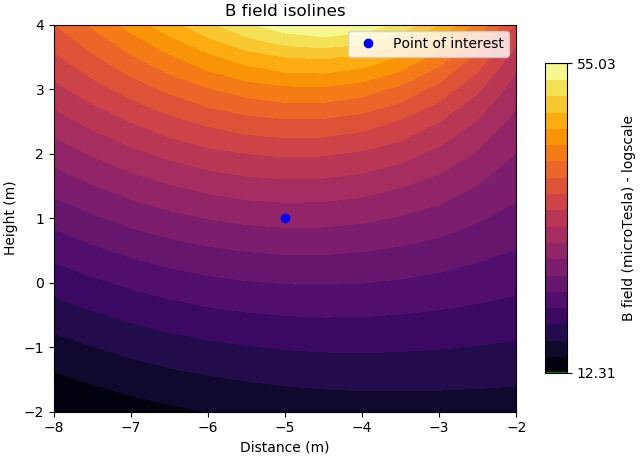
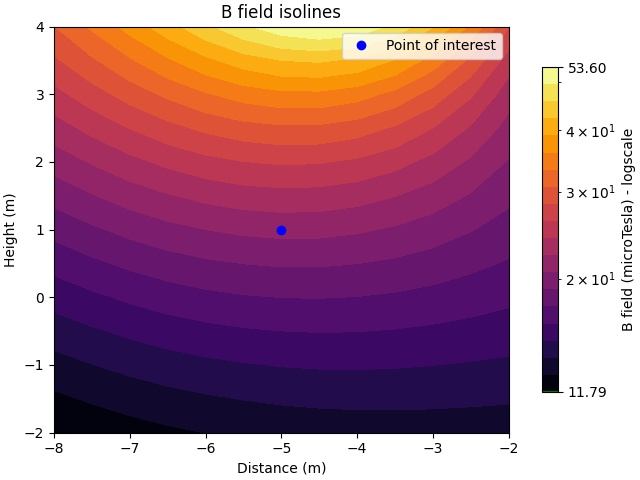
Test calculation.py: main_grid

diff --git a/conftest.py b/conftest.py
@@ -85,12 +85,27 @@ def eg_input_B_eff_single_OH():
     return expected_input_1, expected_input_2, expected_input_3
 
 @fixture
-def eg_output_B_eff_single_OH():
+def eg_output_single_OH():
     '''
     Overhead configuration A1 - single triad - OUTPUT
     '''
     B_eff = 2.991776205053418
-    return B_eff
+    x = np.array([-23.5, -23,  -22.5, -22, -21.5, -21, -20.5, -20, -19.5, -19, -18.5, -18, -17.5])
+    y = np.array([-2, -1.5, -1, -0.5, 0, 0.5, 1, 1.5, 2, 2.5, 3, 3.5, 4])
+    z_grid = np.array([[2.11, 2.19, 2.28, 2.37, 2.46, 2.56, 2.66, 2.78, 2.89, 3.02, 3.15, 3.29, 3.44],
+                       [2.15, 2.23, 2.32, 2.41, 2.51, 2.61, 2.72, 2.84, 2.96, 3.09, 3.23, 3.38, 3.53],
+                       [2.18, 2.27, 2.36, 2.45, 2.56, 2.66, 2.78, 2.90, 3.03, 3.16, 3.31, 3.46, 3.63],
+                       [2.22, 2.30, 2.40, 2.50, 2.60, 2.71, 2.83, 2.96, 3.09, 3.24, 3.39, 3.55, 3.72],
+                       [2.25, 2.34, 2.44, 2.54, 2.65, 2.76, 2.89, 3.02, 3.16, 3.31, 3.47, 3.64, 3.82],
+                       [2.28, 2.37, 2.47, 2.58, 2.69, 2.81, 2.94, 3.08, 3.22, 3.38, 3.54, 3.72, 3.91],
+                       [2.31, 2.41, 2.51, 2.62, 2.74, 2.86, 2.99, 3.13, 3.28, 3.45, 3.62, 3.81, 4.01],
+                       [2.34, 2.44, 2.54, 2.66, 2.78, 2.90, 3.04, 3.19, 3.34, 3.51, 3.69, 3.89, 4.10],
+                       [2.37, 2.47, 2.58, 2.69, 2.82, 2.95, 3.09, 3.24, 3.40, 3.58, 3.76, 3.96, 4.18],
+                       [2.39, 2.50, 2.61, 2.73, 2.85, 2.99, 3.13, 3.29, 3.46, 3.64, 3.83, 4.04, 4.27],
+                       [2.42, 2.53, 2.64, 2.76, 2.89, 3.03, 3.18, 3.34, 3.51, 3.69, 3.89, 4.11, 4.35],
+                       [2.44, 2.55, 2.67, 2.79, 2.92, 3.06, 3.22, 3.38, 3.56, 3.75, 3.95, 4.18, 4.42],
+                       [2.46, 2.57, 2.69, 2.82, 2.95, 3.10, 3.25, 3.42, 3.60, 3.80, 4.01, 4.24, 4.49]])
+    return B_eff, x, y, z_grid
 
 @fixture
 def eg_input_double_OH():
@@ -101,12 +116,12 @@ def eg_input_double_OH():
     xp, yp = -5, 1
     diam_cables = 31.5*0.001
     cables_array = np.array([[[330, -4.0, 6.3],
-                              [210, -3.6, 11.6],
-                              [90, -3.2, 16.3]],
+                              [210, -3.6, 11],
+                              [90, -3.2, 15.7]],
 
                              [[330, 4.0, 6.3],
-                              [210, 3.6, 11.6],
-                              [90, 3.2, 16.3]]])
+                              [210, 3.6, 11],
+                              [90, 3.2, 15.7]]])
     subparser_type = 'double'
     return currents, xp, yp, diam_cables, cables_array, subparser_type
 
@@ -142,20 +157,42 @@ def eg_input_B_eff_double_OH():
     Overhead configuration A9 - double triad - INPUT
     '''
     expected_input_1 = np.array([float(2.74544045e-05), float(-1.58508078e-05), float(-5.18007633e-06), float(2.99071846e-06)]).reshape(2, 2)
-    expected_input_2 = np.array([float(-1.39721593e-05), float(-8.06682996e-06), float(1.84537954e-06), float(1.06543037e-06)]).reshape(2, 2)
-    expected_input_3 = np.array([float(6.86861061e-22), float(1.12172924e-05), float(-8.08071836e-23), float(-1.31968146e-06)]).reshape(2, 2)
+    expected_input_2 = np.array([float(-1.47791703e-05), float(-8.53275795e-06), float(2.06908384e-06), float(1.19458611e-06)]).reshape(2, 2)
+    expected_input_3 = np.array([float(7.14084162e-22), float(1.16618794e-05), float(-8.74388770e-23), float(-1.42798523e-06)]).reshape(2, 2)
     expected_input_4 = np.array([float(7.32100676e-06), float(-4.22678523e-06), float(-1.24318983e-05), float(7.17755982e-06)]).reshape(2, 2)
-    expected_input_5 = np.array([float(-8.57287063e-06), float(-4.94954917e-06), float(6.95534787e-06), float(4.01567196e-06)]).reshape(2, 2)
-    expected_input_6 = np.array([float(5.40977452e-22), float(8.83483225e-06), float(-2.89935628e-22), float(-4.73500813e-06)]).reshape(2, 2)
+    expected_input_5 = np.array([float(-8.66224536e-06), float(-5.00114969e-06), float(7.44953101e-06), float(4.30098874e-06)]).reshape(2, 2)
+    expected_input_6 = np.array([float(5.52783254e-22), float(9.02763562e-06), float(-3.08355284e-22), float(-5.03582395e-06)]).reshape(2, 2)
+
+    # expected_input_1 = np.array([float(2.74544045e-05), float(-1.58508078e-05), float(-5.18007633e-06), float(2.99071846e-06)]).reshape(2, 2)
+    # expected_input_2 = np.array([float(-1.39721593e-05), float(-8.06682996e-06), float(1.84537954e-06), float(1.06543037e-06)]).reshape(2, 2)
+    # expected_input_3 = np.array([float(6.86861061e-22), float(1.12172924e-05), float(-8.08071836e-23), float(-1.31968146e-06)]).reshape(2, 2)
+    # expected_input_4 = np.array([float(7.32100676e-06), float(-4.22678523e-06), float(-1.24318983e-05), float(7.17755982e-06)]).reshape(2, 2)
+    # expected_input_5 = np.array([float(-8.57287063e-06), float(-4.94954917e-06), float(6.95534787e-06), float(4.01567196e-06)]).reshape(2, 2)
+    # expected_input_6 = np.array([float(5.40977452e-22), float(8.83483225e-06), float(-2.89935628e-22), float(-4.73500813e-06)]).reshape(2, 2)
     return expected_input_1, expected_input_2, expected_input_3, expected_input_4, expected_input_5, expected_input_6
 
 @fixture
-def eg_output_B_eff_double_OH():
+def eg_output_double_OH():
     '''
     Overhead configuration A9 - double triad - OUTPUT
     '''
-    B_eff = 21.95113745163136
-    return B_eff
+    B_eff = 21.108776674367164
+    x = np.array([-8, -7.5, -7, -6.5, -6, -5.5, -5, -4.5, -4, -3.5, -3, -2.5, -2])
+    y = np.array([-2, -1.5, -1, -0.5, 0, 0.5, 1, 1.5, 2, 2.5, 3, 3.5, 4])
+    z_grid = np.array([[11.79, 12.08, 12.34, 12.58, 12.78, 12.95, 13.08, 13.17, 13.22, 13.25, 13.24, 13.22, 13.18],
+                       [12.56, 12.89, 13.19, 13.46, 13.68, 13.86, 13.99, 14.08, 14.11, 14.11, 14.08, 14.02, 13.95],
+                       [13.42, 13.80, 14.14, 14.45, 14.70, 14.89, 15.03, 15.10, 15.11, 15.07, 14.99, 14.88, 14.75],
+                       [14.38, 14.82, 15.22, 15.57, 15.86, 16.07, 16.21, 16.26, 16.24, 16.14, 15.99, 15.80, 15.60],
+                       [15.45, 15.97, 16.44, 16.86, 17.19, 17.44, 17.58, 17.61, 17.53, 17.35, 17.10, 16.81, 16.49],
+                       [16.65, 17.28, 17.85, 18.35, 18.75, 19.04, 19.18, 19.18, 19.03, 18.75, 18.35, 17.90, 17.42],
+                       [18.01, 18.77, 19.47, 20.09, 20.59, 20.94, 21.11, 21.07, 20.82, 20.38, 19.79, 19.10, 18.38],
+                       [19.55, 20.48, 21.36, 22.15, 22.80, 23.26, 23.46, 23.38, 23.01, 22.35, 21.47, 20.45, 19.39],
+                       [21.30, 22.46, 23.58, 24.62, 25.49, 26.12, 26.41, 26.31, 25.77, 24.82, 23.52, 22.02, 20.45],
+                       [23.26, 24.73, 26.19, 27.58, 28.81, 29.73, 30.22, 30.13, 29.40, 28.03, 26.15, 23.94, 21.63],
+                       [25.47, 27.34, 29.27, 31.19, 32.96, 34.40, 35.27, 35.31, 34.36, 32.43, 29.69, 26.46, 23.10],
+                       [27.93, 30.31, 32.88, 35.56, 38.21, 40.56, 42.20, 42.64, 41.52, 38.77, 34.75, 30.03, 25.16],
+                       [30.61, 33.64, 37.06, 40.84, 44.87, 48.82, 52.06, 53.60, 52.48, 48.49, 42.39, 35.38, 28.42]])
+    return B_eff, x, y, z_grid
 
 @fixture
 def eg_input_B_eff_UG():
@@ -168,9 +205,24 @@ def eg_input_B_eff_UG():
     return expected_input_1, expected_input_2, expected_input_3
 
 @fixture
-def eg_output_B_eff_UG():
+def eg_output_UG():
     '''
     Underground configuration A14 - OUTPUT
     '''
     B_eff = 2.961985541915273
-    return B_eff
+    x = np.array([2.1, 2.6, 3.1, 3.6, 4.1, 4.6, 5.1, 5.6, 6.1, 6.6, 7.1, 7.6, 8.1])
+    y = np.array([-4.5, -4, -3.5, -3, -2.5, -2, -1.5, -1, -0.5, 0, 0.5, 1, 1.5])
+    z_grid = np.array([[5.73, 4.88, 4.13, 3.50, 2.98, 2.55, 2.20, 1.91, 1.67, 1.46, 1.30, 1.15, 1.03],
+                       [7.21, 5.91, 4.85, 4.01, 3.34, 2.81, 2.39, 2.05, 1.77, 1.55, 1.36, 1.20, 1.07],
+                       [9.15, 7.16, 5.66, 4.54, 3.70, 3.06, 2.57, 2.18, 1.87, 1.62, 1.41, 1.25, 1.11],
+                       [11.58, 8.56, 6.50, 5.07, 4.04, 3.29, 2.73, 2.29, 1.95, 1.68, 1.46, 1.28, 1.13],
+                       [14.30, 9.96, 7.27, 5.53, 4.33, 3.48, 2.85, 2.38, 2.01, 1.73, 1.50, 1.31, 1.16],
+                       [16.65, 11.04, 7.83, 5.84, 4.52, 3.60, 2.93, 2.44, 2.06, 1.76, 1.52, 1.33, 1.17],
+                       [17.62, 11.46, 8.04, 5.96, 4.59, 3.64, 2.96, 2.46, 2.07, 1.77, 1.53, 1.33, 1.17],
+                       [16.65, 11.04, 7.83, 5.84, 4.52, 3.60, 2.93, 2.44, 2.06, 1.76, 1.52, 1.33, 1.17],
+                       [14.30, 9.96, 7.27, 5.53, 4.33, 3.48, 2.85, 2.38, 2.01, 1.73, 1.50, 1.31, 1.16],
+                       [11.58, 8.56, 6.50, 5.07, 4.04, 3.29, 2.73, 2.29, 1.95, 1.68, 1.46, 1.28, 1.13],
+                       [9.15, 7.16, 5.66, 4.54, 3.70, 3.06, 2.57, 2.18, 1.87, 1.62, 1.41, 1.25, 1.11],
+                       [7.21, 5.91, 4.85, 4.01, 3.34, 2.81, 2.39, 2.05, 1.77, 1.55, 1.36, 1.20, 1.07],
+                       [5.73, 4.88, 4.13, 3.50, 2.98, 2.55, 2.20, 1.91, 1.67, 1.46, 1.30, 1.15, 1.03]])
+    return B_eff, x, y, z_grid

diff --git a/test_calculations.py b/test_calculations.py
@@ -1,13 +1,10 @@
 # import hypothesis.strategies as st
 # from hypothesis import given, settings
+#import pytest
 
 import numpy as np
-#import pytest
 from B_field import calculations
 
-def test_which_iterator():
-    #TODO write a test
-    return True
 
 def test_calc_B_phasors_overhead(eg_input_single_OH, eg_output_B_phasors_OH):
     '''
@@ -16,10 +13,7 @@ def test_calc_B_phasors_overhead(eg_input_single_OH, eg_output_B_phasors_OH):
     what is expected to.
     '''
     calculated_B_phasors = calculations.calc_B_phasors(eg_input_single_OH[0][0], eg_input_single_OH[1], eg_input_single_OH[2], eg_input_single_OH[4][0][0])
-    assert np.isclose(calculated_B_phasors[0, 0], eg_output_B_phasors_OH[0, 0])
-    assert np.isclose(calculated_B_phasors[0, 1], eg_output_B_phasors_OH[0, 1])
-    assert np.isclose(calculated_B_phasors[1, 0], eg_output_B_phasors_OH[1, 0])
-    assert np.isclose(calculated_B_phasors[1, 1], eg_output_B_phasors_OH[1, 1])
+    assert np.allclose(calculated_B_phasors, eg_output_B_phasors_OH)
 
 def test_calc_B_phasors_underground(eg_input_UG, eg_output_B_phasors_UG):
     '''
@@ -28,12 +22,10 @@ def test_calc_B_phasors_underground(eg_input_UG, eg_output_B_phasors_UG):
     what is expected to.
     '''
     calculated_B_phasors = calculations.calc_B_phasors(eg_input_UG[0][0], eg_input_UG[1], eg_input_UG[2], eg_input_UG[4][0][0])
-    assert np.isclose(calculated_B_phasors[0, 0], eg_output_B_phasors_UG[0, 0])
-    assert np.isclose(calculated_B_phasors[0, 1], eg_output_B_phasors_UG[0, 1])
-    assert np.isclose(calculated_B_phasors[1, 0], eg_output_B_phasors_UG[1, 0])
-    assert np.isclose(calculated_B_phasors[1, 1], eg_output_B_phasors_UG[1, 1])
+    assert np.allclose(calculated_B_phasors, eg_output_B_phasors_UG)
 
-def test_calc_B_effective_overhead(eg_input_B_eff_single_OH, eg_input_B_eff_double_OH, eg_output_B_eff_single_OH, eg_output_B_eff_double_OH):
+
+def test_calc_B_effective_overhead(eg_input_B_eff_single_OH, eg_input_B_eff_double_OH, eg_output_single_OH, eg_output_double_OH):
     '''
     This test verifies that the function calc_B_effective, given the proper input
     of a single triad or double triad OVERHEAD (OH), returns what is expected to.
@@ -41,18 +33,20 @@ def test_calc_B_effective_overhead(eg_input_B_eff_single_OH, eg_input_B_eff_doub
     calculated_B_effective_single_OH = calculations.calc_B_effective(eg_input_B_eff_single_OH[0], eg_input_B_eff_single_OH[1], eg_input_B_eff_single_OH[2])
     calculated_B_effective_double_OH = calculations.calc_B_effective(eg_input_B_eff_double_OH[0], eg_input_B_eff_double_OH[1], eg_input_B_eff_double_OH[2],
                                                                   eg_input_B_eff_double_OH[3], eg_input_B_eff_double_OH[4], eg_input_B_eff_double_OH[5])
-    assert np.isclose(calculated_B_effective_single_OH, eg_output_B_eff_single_OH)
-    assert np.isclose(calculated_B_effective_double_OH, eg_output_B_eff_double_OH)
+    assert np.isclose(calculated_B_effective_single_OH, eg_output_single_OH[0])
+    assert np.isclose(calculated_B_effective_double_OH, eg_output_double_OH[0])
 
-def test_calc_B_effective_underground(eg_input_B_eff_UG, eg_output_B_eff_UG):
+
+def test_calc_B_effective_underground(eg_input_B_eff_UG, eg_output_UG):
     '''
     This test verifies that the function calc_B_effective, given the proper input
     of a single triad UNDERGROUND (UG), returns what is expected to.
     '''
     calculated_B_effective_UG = calculations.calc_B_effective(eg_input_B_eff_UG[0], eg_input_B_eff_UG[1], eg_input_B_eff_UG[2])
-    assert np.isclose(calculated_B_effective_UG, eg_output_B_eff_UG)
+    assert np.isclose(calculated_B_effective_UG, eg_output_UG[0])
 
-def test_main_point(eg_input_single_OH, eg_output_B_eff_single_OH, eg_input_UG, eg_output_B_eff_UG, eg_input_double_OH, eg_output_B_eff_double_OH):
+
+def test_main_point(eg_input_single_OH, eg_output_single_OH, eg_input_UG, eg_output_UG, eg_input_double_OH, eg_output_double_OH):
     '''
     This test verifies that the function main_point, given the proper input
     of either a single triad OVERHEAD (OH) or UNDERGROUND (UG),
@@ -61,25 +55,47 @@ def test_main_point(eg_input_single_OH, eg_output_B_eff_single_OH, eg_input_UG, 
     calculated_point_single_OH = calculations.main_point(eg_input_single_OH[0], eg_input_single_OH[1], eg_input_single_OH[2], eg_input_single_OH[3], eg_input_single_OH[4], eg_input_single_OH[5])
     calculated_point_single_UG = calculations.main_point(eg_input_UG[0], eg_input_UG[1], eg_input_UG[2], eg_input_UG[3], eg_input_UG[4], eg_input_UG[5])
     calculated_point_double_OH = calculations.main_point(eg_input_double_OH[0], eg_input_double_OH[1], eg_input_double_OH[2], eg_input_double_OH[3], eg_input_double_OH[4], eg_input_double_OH[5])
-    assert np.isclose(calculated_point_single_OH, eg_output_B_eff_single_OH)
-    assert np.isclose(calculated_point_single_UG, eg_output_B_eff_UG)
-    assert np.isclose(calculated_point_double_OH, eg_output_B_eff_double_OH)
+    assert np.isclose(calculated_point_single_OH, eg_output_single_OH[0])
+    assert np.isclose(calculated_point_single_UG, eg_output_UG[0])
+    assert np.isclose(calculated_point_double_OH, eg_output_double_OH[0])
 
-def test_main_grid():
-    #TODO write a test
-    return True
+def test_main_grid(eg_input_single_OH, eg_output_single_OH, eg_input_UG, eg_output_UG, eg_input_double_OH, eg_output_double_OH):
+    '''
+    This test verifies that the function main_grid, given the proper input
+    of either a single triad OVERHEAD (OH) or UNDERGROUND (UG),
+    or a double triad OVERHEAD (OH), returns what is expected to.
+    '''
+    calculated_grid_single_OH = calculations.main_grid(eg_input_single_OH[0], eg_input_single_OH[1], eg_input_single_OH[2], eg_input_single_OH[3], eg_input_single_OH[4], eg_input_single_OH[5])
+    calculated_grid_single_UG = calculations.main_grid(eg_input_UG[0], eg_input_UG[1], eg_input_UG[2], eg_input_UG[3], eg_input_UG[4], eg_input_UG[5])
+    calculated_grid_double_OH = calculations.main_grid(eg_input_double_OH[0], eg_input_double_OH[1], eg_input_double_OH[2], eg_input_double_OH[3], eg_input_double_OH[4], eg_input_double_OH[5])
+    #assert del single Overhead
+    assert np.allclose(calculated_grid_single_OH[0], eg_output_single_OH[1]) #x array
+    assert np.allclose(calculated_grid_single_OH[1], eg_output_single_OH[2]) #y array
+    assert np.allclose(calculated_grid_single_OH[2], eg_output_single_OH[3], rtol=1e-02) # z_grid
+    #asser del single Underground
+    assert np.allclose(calculated_grid_single_UG[0], eg_output_UG[1])
+    assert np.allclose(calculated_grid_single_UG[1], eg_output_UG[2])
+    assert np.allclose(calculated_grid_single_UG[2], eg_output_UG[3], rtol=1e-02)
+    #asser del double Overhead
+    assert np.allclose(calculated_grid_double_OH[0], eg_output_double_OH[1])
+    assert np.allclose(calculated_grid_double_OH[1], eg_output_double_OH[2])
+    assert np.allclose(calculated_grid_double_OH[2], eg_output_double_OH[3], rtol=1e-02)
+
 
 def test_centroid():
     #TODO write a test
     return True
 
+
 def test_is_underground():
     #TODO write a test
     return True
 
+
 def test_lim_val_checker():
     #TODO write a test
     return True
+
 
 def test_main_dpa():
     #TODO write a test

diff --git a/B_field/calculations.py b/B_field/calculations.py
@@ -19,14 +19,14 @@ def which_iterator(subparser_type):
 
     Returns
     -------------------
-    iter : int
+    iter_triad : int
         Iterator useful in "for" loops.
     '''
     if subparser_type == 'single':
-        iter = 1
+        iter_triad = 1
     elif subparser_type == 'double':
-        iter = 2
-    return iter
+        iter_triad = 2
+    return iter_triad
 
 
 def calc_B_phasors(I, xp, yp, cable_array):
@@ -176,8 +176,8 @@ def main_point(I_or_II, xp, yp, diam_cables, cables_array, subparser_type):
     B_phasors_cables = np.zeros((2, 3, 2, 2))
     #2 super-sets (two triads), 3 sets (three cables each), 2 row each, 2 columns each
 
-    iter = which_iterator(subparser_type)
-    for j in range(iter):
+    iter_triad = which_iterator(subparser_type)
+    for j in range(iter_triad):
         for i in range(3):
             if np.sum(np.square(point_P - np.array((cables_array[j, i, 1], cables_array[j, i, 2])))) < radius_cable:
                 B_dummy = 9999
@@ -254,12 +254,12 @@ def centroid(cables_array, subparser_type):
     x_sum, y_sum = 0, 0
     num_cables = 3
 
-    iter = which_iterator(subparser_type)
-    for j in range(iter):
+    iter_triad = which_iterator(subparser_type)
+    for j in range(iter_triad):
         for i in range(num_cables):
             x_sum += cables_array[j, i, 1]
             y_sum += cables_array[j, i, 2]
-    xg, yg = x_sum/(num_cables*iter), y_sum/(num_cables*iter)
+    xg, yg = x_sum/(num_cables*iter_triad), y_sum/(num_cables*iter_triad)
     return xg, yg
 
 
@@ -283,8 +283,8 @@ def is_underground(cables_array, subparser_type):
         Number of intervals into which the bilateral distances to investigate (having xp, yp as the middle point) will be divided.
     '''
 
-    iter = which_iterator(subparser_type)
-    for j in range(iter):
+    iter_triad = which_iterator(subparser_type)
+    for j in range(iter_triad):
         for i in range(3):
             if np.linalg.norm(np.array((cables_array[j, i-1, 1], cables_array[j, i-1, 2]))-np.array((cables_array[j, i, 1], cables_array[j, i, 2]))) < 0.5:
                 delta, nx = 6, 121

diff --git a/README.md b/README.md
@@ -202,25 +202,25 @@ Configuration A9 of the [Linea Guida ENEL][1], non-optimized balanced double tri
 ```bash
 B_field double @./examples/Argom_Bdouble.txt -point -bidim -graph -dpa 3
 
-In point of coordinates ( -5.0 , 1.0 ), the magnetic induction is  21.95  microTesla.
+In point of coordinates ( -5.0 , 1.0 ), the magnetic induction is  21.11  microTesla.
 
 
 ------Grid of B field values (microTesla)------
 ----Point of interest in the matrix center-----
 
- [[31.64 34.74 38.22 42.08 46.19 50.21 53.49 55.03 53.84 49.71 43.43 36.22 29.06]
- [28.9  31.34 33.97 36.72 39.42 41.82 43.49 43.93 42.77 39.94 35.8  30.96 25.97]
- [26.4  28.31 30.29 32.26 34.07 35.55 36.44 36.48 35.51 33.52 30.72 27.42 23.99]
- [24.13 25.64 27.14 28.57 29.83 30.78 31.28 31.2  30.45 29.06 27.14 24.89 22.54]
- [22.11 23.31 24.47 25.53 26.44 27.09 27.4  27.3  26.75 25.78 24.47 22.93 21.34]
- [20.32 21.28 22.19 23.01 23.68 24.15 24.37 24.3  23.92 23.26 22.36 21.32 20.25]
- [18.74 19.52 20.25 20.89 21.41 21.77 21.95 21.92 21.67 21.23 20.63 19.93 19.21]
- [17.34 17.98 18.57 19.09 19.51 19.81 19.97 19.97 19.83 19.54 19.15 18.68 18.2 ]
- [16.09 16.63 17.13 17.56 17.91 18.16 18.31 18.35 18.27 18.1  17.85 17.55 17.24]
- [14.99 15.44 15.86 16.23 16.53 16.75 16.9  16.96 16.94 16.85 16.69 16.51 16.31]
- [14.   14.39 14.75 15.07 15.33 15.54 15.68 15.76 15.77 15.73 15.65 15.54 15.42]
- [13.11 13.45 13.77 14.04 14.28 14.47 14.61 14.69 14.74 14.74 14.7  14.65 14.58]
- [12.31 12.61 12.89 13.13 13.35 13.52 13.66 13.75 13.81 13.84 13.84 13.82 13.78]]
+ [[30.61 33.64 37.06 40.84 44.87 48.82 52.06 53.6  52.48 48.49 42.39 35.38 28.42]
+ [27.93 30.31 32.88 35.56 38.21 40.56 42.2  42.64 41.52 38.77 34.75 30.03 25.16]
+ [25.47 27.34 29.27 31.19 32.96 34.4  35.27 35.31 34.36 32.43 29.69 26.46 23.1 ]
+ [23.26 24.73 26.19 27.58 28.81 29.73 30.22 30.13 29.4  28.03 26.15 23.94 21.63]
+ [21.3  22.46 23.58 24.62 25.49 26.12 26.41 26.31 25.77 24.82 23.52 22.02 20.45]
+ [19.55 20.48 21.36 22.15 22.8  23.26 23.46 23.38 23.01 22.35 21.47 20.45 19.39]
+ [18.01 18.77 19.47 20.09 20.59 20.94 21.11 21.07 20.82 20.38 19.79 19.1  18.38]
+ [16.65 17.28 17.85 18.35 18.75 19.04 19.18 19.18 19.03 18.75 18.35 17.9  17.42]
+ [15.45 15.97 16.44 16.86 17.19 17.44 17.58 17.61 17.53 17.35 17.1  16.81 16.49]
+ [14.38 14.82 15.22 15.57 15.86 16.07 16.21 16.26 16.24 16.14 15.99 15.8  15.6 ]
+ [13.42 13.8  14.14 14.45 14.7  14.89 15.03 15.1  15.11 15.07 14.99 14.88 14.75]
+ [12.56 12.89 13.19 13.46 13.68 13.86 13.99 14.08 14.11 14.11 14.08 14.02 13.95]
+ [11.79 12.08 12.34 12.58 12.78 12.95 13.08 13.17 13.22 13.25 13.24 13.22 13.18]]
 
 The value of the DPA (Distanza di Prima Approssimazione) is  32.0  meters from the cables' center of gravity abscissa.
 ```
